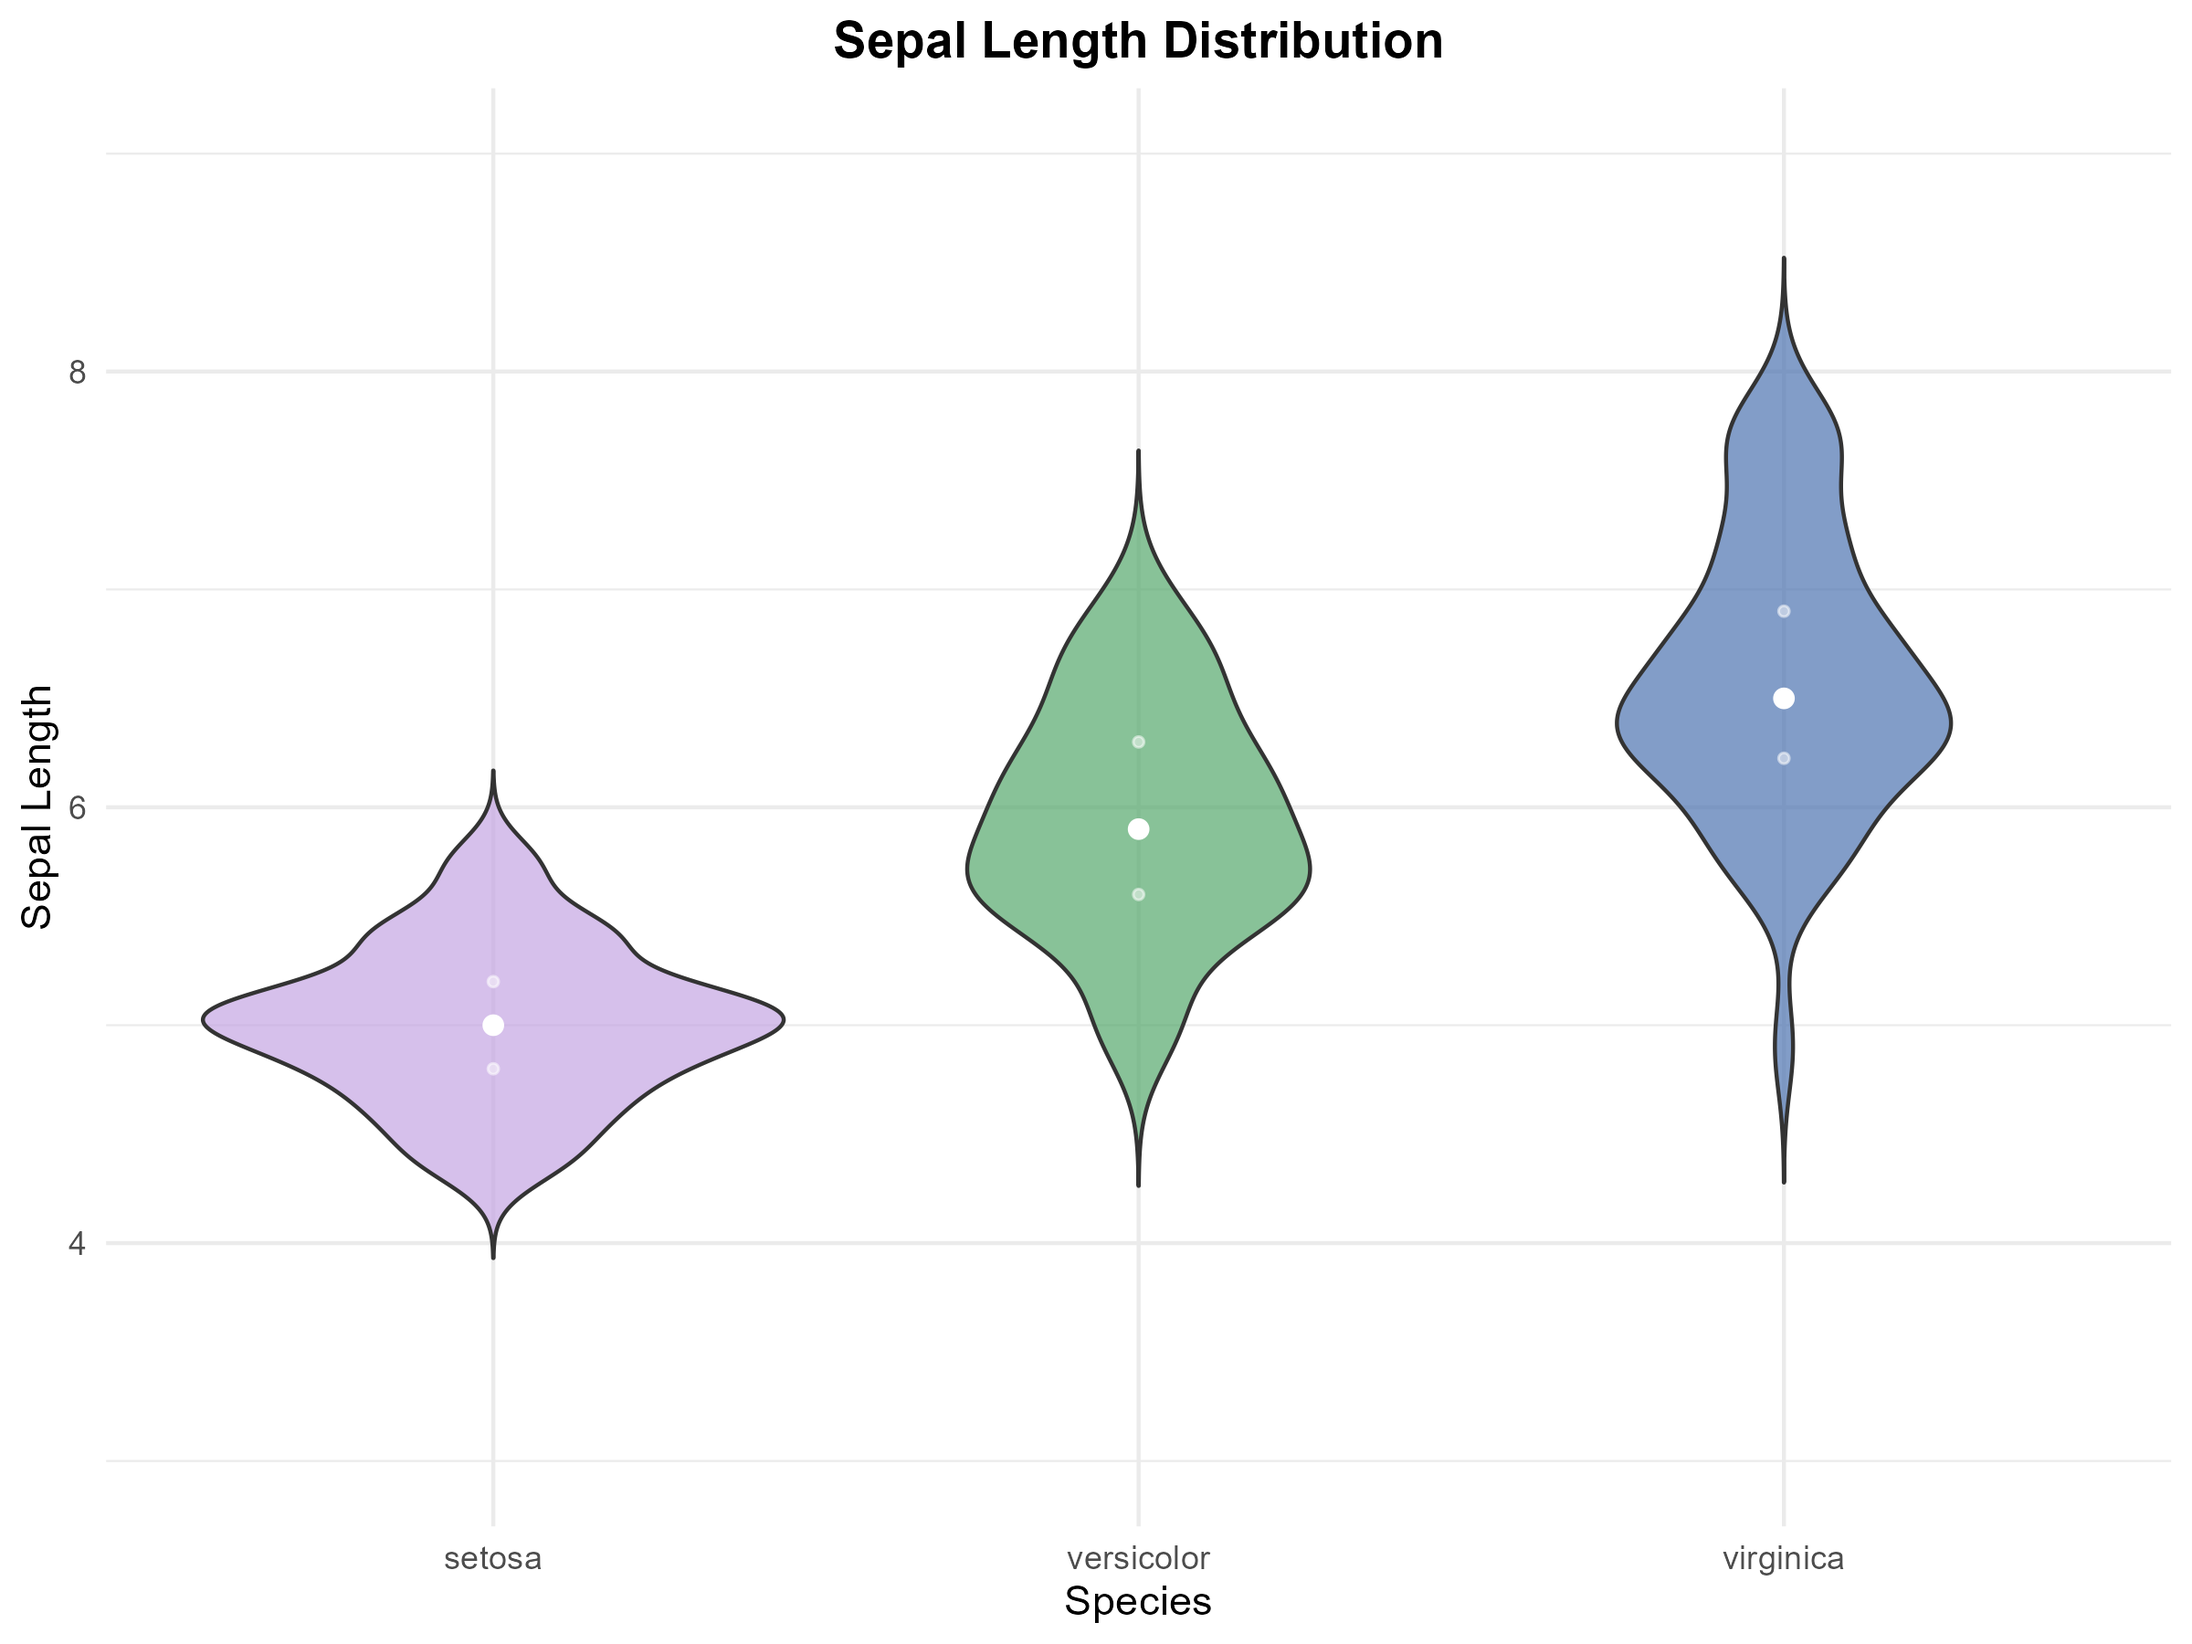
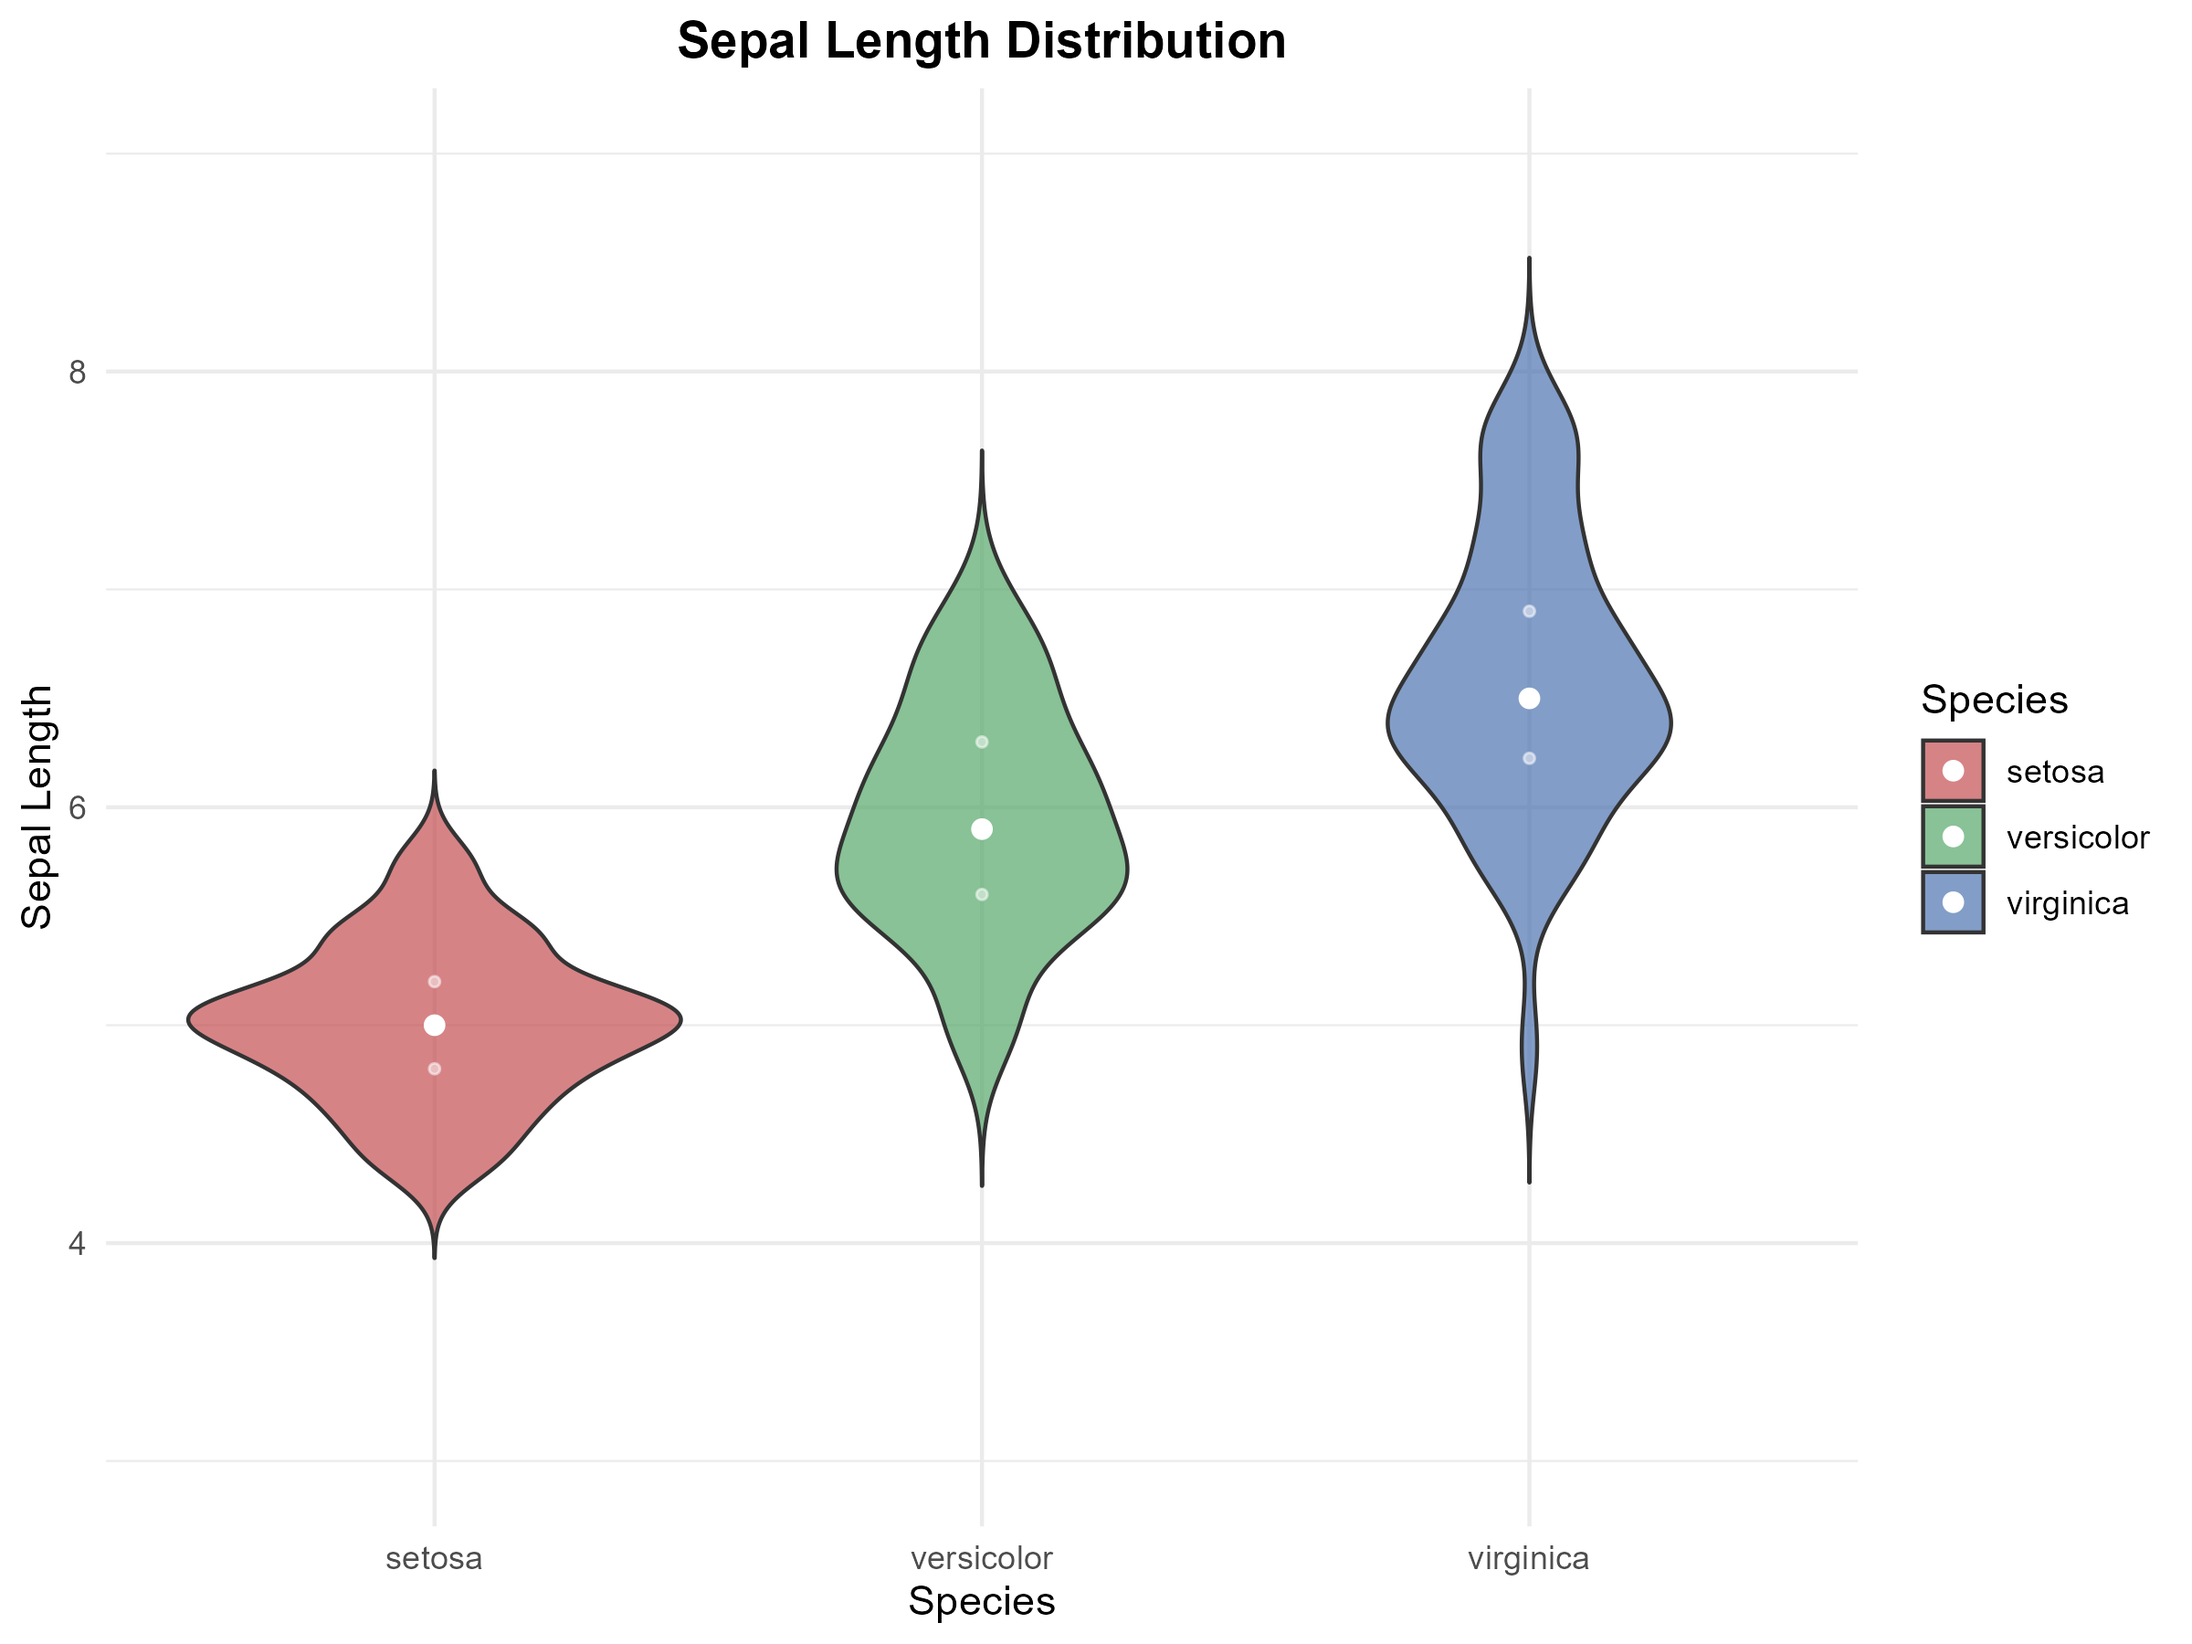
R

diff --git a/上机作业Plot_with_R/上机作业Plot_with_R.md b/上机作业Plot_with_R/上机作业Plot_with_R.md
@@ -30,20 +30,20 @@
 
 + labs(title = "Sepal Length Distribution", 
 +      x = "Species", 
-+      y = "Sepal Length")+
++      y = "Sepal Length") +
 # 设置x轴、y轴、标题的标签。
 
-+ scale_y_continuous(limits = c(3, 9))
++ scale_y_continuous(limits = c(3, 9)) +
 # 控制 y 轴（连续变量）的刻度、范围在3-9之间。
 
-+scale_fill_manual(values = c("#C4A5E2", "#55A86B", "#4C72B0"))
++scale_fill_manual(values = c("#C44E52", "#55A868", "#4C72B0")) +
 # 按变量水平顺序，依次赋予颜色。
 
 +theme_minimal() +  
 # 使用简洁主题
 
-+ theme(plot.title = element_text(hjust = 0.5, face = "bold"), legend.position = "none")
-# 标题对齐居中，字体加粗，不显示图例。
++ theme(plot.title = element_text(hjust = 0.5, face = "bold"))
+# 标题对齐居中，字体加粗。
 
 > print(p)
 
